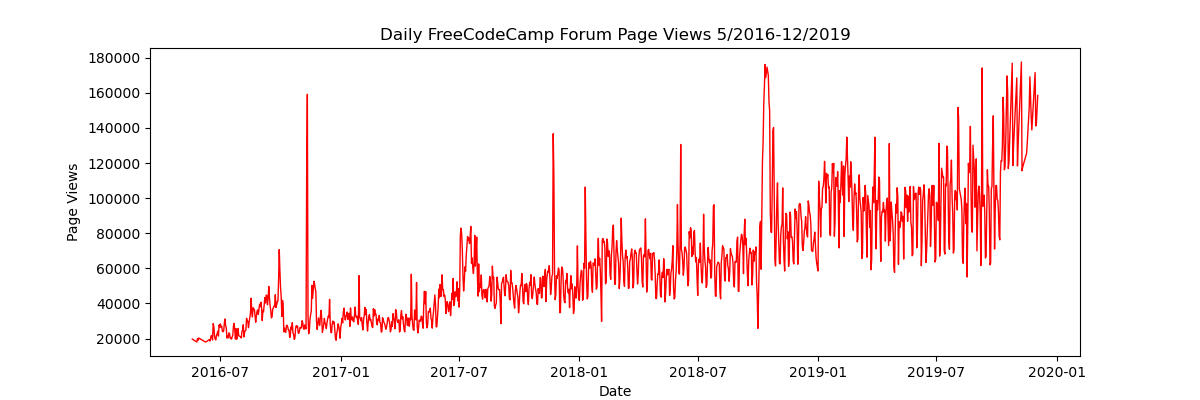
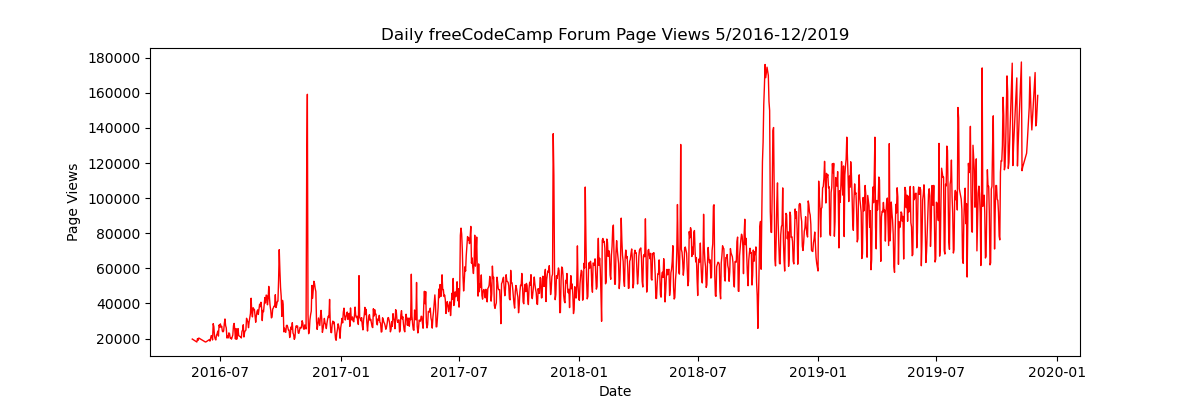
Create Box Plot - Challenge Solved

Changed region(s): [[0.3083, 0.06, 0.7092, 0.12]]

diff --git a/time_series_visualizer.py b/time_series_visualizer.py
@@ -1,6 +1,7 @@
 import matplotlib.pyplot as plt
 import pandas as pd
 import seaborn as sns
+import calendar
 from pandas.plotting import register_matplotlib_converters
 register_matplotlib_converters()
 
@@ -19,7 +20,7 @@ def draw_line_plot():
     df['date'] = pd.to_datetime(df['date'])
     fig, ax = plt.subplots(figsize=(12,4))
     ax.plot(df['date'], df['value'], color='r', linewidth=1)
-    ax.set_title('Daily FreeCodeCamp Forum Page Views 5/2016-12/2019')
+    ax.set_title('Daily freeCodeCamp Forum Page Views 5/2016-12/2019')
     ax.set_xlabel('Date')
     ax.set_ylabel('Page Views')
 
@@ -42,6 +43,8 @@ def draw_bar_plot():
     df_bar.plot(kind='bar',ax=ax)
     ax.set_title('Average Daily Page Views')
     ax.legend(labels=month_names, title='Months', loc='upper left')
+    ax.set_xlabel('Years')
+    ax.set_ylabel('Average Page Views')
     
     # Save image and return fig (don't change this part)
     fig.savefig('bar_plot.png')
@@ -55,10 +58,23 @@ def draw_box_plot():
     df_box['month'] = [d.strftime('%b') for d in df_box.date]
 
     # Draw box plots (using Seaborn)
+    fig, axes = plt.subplots(1,2, figsize=(15,5))
 
+    # Year-wise Box Plot
+    sns.boxplot(x='year',y='value', hue='year', data=df_box,\
+                ax=axes[0],fliersize=2, palette='deep')
+    axes[0].set_title('Year-wise Box Plot (Trend)')
+    axes[0].set_xlabel('Year')
+    axes[0].set_ylabel('Page Views')
 
-
-
+    # Month-wise Box Plot
+    sns.boxplot(x='month', y='value', hue='month', data=df_box,\
+                ax=axes[1], order=['Jan', 'Feb', 'Mar', 'Apr', 'May',\
+                 'Jun', 'Jul', 'Aug', 'Sep', 'Oct', 'Nov', 'Dec'],
+                width=0.7, fliersize=2, palette='pastel') 
+    axes[1].set_title('Month-wise Box Plot (Seasonality)')
+    axes[1].set_xlabel('Month')
+    axes[1].set_ylabel('Page Views')
 
     # Save image and return fig (don't change this part)
     fig.savefig('box_plot.png')
